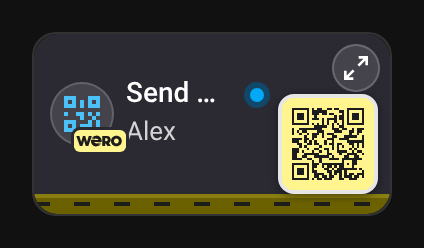
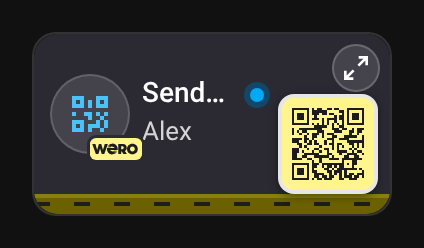
fix: full review fixes (1.14.2) (#63)
Full review (2026-11). Code, CI, security, translations and the visual
editor are in good shape; only the README needed corrections.

- README: the bundle is ~70 KB with English inline and one small file
per other language (was "single file ~55 KB").
- README: `name` is also the illustrated header's subtitle.

Version 1.14.2 (fix: the card is patched in place on state updates).
- Layout shift: a state update patches the card in place (no innerHTML
redraw) — SVG pictures, logos, open rows and dialogs keep their nodes;
unrelated entity updates touch nothing (regression tests added).
- Mini card header icon stays 40 px on narrow cards (charter: same size)
- README: Wero logo row under the own logo; note that all options apply
to both cards (except `zoom`) and are editor-editable

---
_Generated by [Claude Code](https://claude.ai/code)_

---------

Changed region(s): [[0.1226, 0.2823, 0.5519, 0.6492]]

diff --git a/src/wero-card.js b/src/wero-card.js
@@ -1006,14 +1006,13 @@ var WERO_BANNER_STYLE = `
         .banner .qr-wrap.thumb svg { width: 56px; }
         .banner .qr-wrap.thumb:focus-visible { outline: 2px solid var(--primary-color, #03a9f4); outline-offset: 4px; }
         /* Narrow mini card: the buttons back on one line, the QR under them at the right edge */
-        @container (max-width: 300px) { .wc-scene.mini .wc-lamp, .wc-scene.mini .wc-ok, .wc-scene.mini g[transform] { display: none; } .banner .htext.mini { right: 62px; gap: 8px; } .banner .htext.mini .hicon { width: 36px; height: 36px; }
+        @container (max-width: 300px) { .wc-scene.mini .wc-lamp, .wc-scene.mini .wc-ok, .wc-scene.mini g[transform] { display: none; } .banner .htext.mini { right: 62px; gap: 8px; }
           ha-card.mini .hact { flex-direction: row; } .banner .qr-wrap.thumb { right: 8px; top: 32px; } .banner .qr-wrap.thumb svg { width: 46px; } }
         /* Very narrow mini card (copy button hidden): the QR under the detail button, at the right edge */
         @container (max-width: 200px) {
           .wc-scene.mini { display: none; }
           .banner .htext.mini { left: 8px; right: 60px; gap: 6px; }
           .banner .htext.mini .hname { font-size: 14px; }
-          .banner .htext.mini .hicon { width: 32px; height: 32px; }
         }
         @keyframes wc-tap { 0%, 100% { transform: translateX(0); } 50% { transform: translateX(-26px); } }
         @keyframes wc-ok { 0%, 45% { opacity: 0; } 55%, 100% { opacity: 1; } }
@@ -1057,6 +1056,67 @@ function weroEsc(s) {
 }
 
 // ── wero-card ─────────────────────────────────────────────────────────────────
+// Shadow DOM patching: a redraw updates the nodes already on the page (text, attributes, classes) instead of replacing
+// them, so that a state update never re-creates the pictures (SVG scenes, logos) nor restarts their animations, and the
+// card keeps its height (a re-created card is laid out again, which can move the dashboard under the reader's eyes).
+// An open <dialog> keeps its `open` state: it is driven by showModal() / close().
+function weroMorphAttrs(cur, next) {
+  for (var a of Array.from(cur.attributes)) {
+    if (!next.hasAttribute(a.name) && !(a.name === 'open' && cur.localName === 'dialog')) cur.removeAttribute(a.name);
+  }
+  for (var b of Array.from(next.attributes)) {
+    if (cur.getAttribute(b.name) === b.value) continue;
+    if (b.namespaceURI) cur.setAttributeNS(b.namespaceURI, b.name, b.value);
+    else cur.setAttribute(b.name, b.value);
+  }
+}
+
+// A Home Assistant element given no content (<ha-icon>…) draws itself: what it adds to its own node is not ours to
+// remove. It is kept as long as the attributes the HTML gives it do not change, and replaced when they do.
+function weroMorphOwnDrawn(o, n) {
+  if (!n.localName.includes('-') || n.firstChild) return false;
+  var key = Array.from(n.attributes, (a) => `${a.name}=${a.value}`).join('\n');
+  if (o.__morphKey === undefined && Array.from(n.attributes).every((a) => o.getAttribute(a.name) === a.value)) o.__morphKey = key;
+  if (o.__morphKey !== key) {
+    n.__morphKey = key;
+    o.parentNode.replaceChild(n, o);
+  }
+  return true;
+}
+
+function weroMorphChildren(cur, next) {
+  var old = Array.from(cur.childNodes);
+  var fresh = Array.from(next.childNodes);
+  fresh.forEach((n, i) => {
+    var o = old[i];
+    var ref = cur.childNodes[i] || null;
+    if (!o || o.nodeType !== n.nodeType || o.nodeName !== n.nodeName) {
+      cur.insertBefore(n, ref);
+      return;
+    }
+    if (o !== ref) cur.insertBefore(o, ref);
+    if (n.nodeType !== 1) {
+      if (o.nodeValue !== n.nodeValue) o.nodeValue = n.nodeValue;
+    } else if (!weroMorphOwnDrawn(o, n)) {
+      weroMorphAttrs(o, n);
+      weroMorphChildren(o, n);
+    }
+  });
+  while (cur.childNodes.length > fresh.length) cur.removeChild(cur.lastChild);
+}
+
+// Gives `root` (a shadow root or an element) the content of `html`, patching what is already there (a plain
+// innerHTML where there is no DOM to patch, as in the unit tests' stubs).
+function weroMorph(root, html) {
+  var tpl = root.childNodes && typeof document !== 'undefined' && document.createElement?.('template');
+  if (!tpl?.content) {
+    root.innerHTML = html;
+    return;
+  }
+  tpl.innerHTML = html;
+  weroMorphChildren(root, tpl.content);
+}
+
 class WeroCard extends HTMLElement {
   static getConfigElement() {
     return document.createElement('wero-card-editor');
@@ -1276,16 +1336,14 @@ class WeroCard extends HTMLElement {
           ${actions}
         </div>`;
     }
-    // A re-render (e.g. language change via `set hass`) replaces an open zoom
-    // dialog: close it cleanly first and reopen the new one afterwards
+    // The redraw patches the nodes in place (weroMorph): an open full screen QR stays open, its QR copy is put back
+    // below; the keyboard focus is given back to the same control if it was lost, without scrolling the page
     var prevDlg = this.shadowRoot.getElementById('zoom');
     var wasOpen = !!(prevDlg && prevDlg.open);
-    if (wasOpen) prevDlg.close();
-    // innerHTML drops the keyboard focus: it is given back to the same control afterwards, without scrolling the page
     var focusId = this.shadowRoot.activeElement?.id;
     if (focusId !== 'copy' && focusId !== 'qr') focusId = null;
 
-    this.shadowRoot.innerHTML = `
+    weroMorph(this.shadowRoot, `
       <style>
         :host { display: block; height: 100%; }
         ha-card { height: 100%; box-sizing: border-box; padding: 12px; display: flex; flex-direction: column; align-items: center; justify-content: flex-start; gap: 10px; }
@@ -1367,11 +1425,13 @@ ${c.illustration ? WERO_BANNER_STYLE : ''}
         ${header}
         ${body}
         <span class="sr" id="live" aria-live="polite"></span>
-      </ha-card>`;
+      </ha-card>`);
 
     this.shadowRoot.getElementById('copy').onclick = () => this._copy();
     var qr = this.shadowRoot.getElementById('qr');
     var dlg = this.shadowRoot.getElementById('zoom');
+    // A dialog that was replaced (the mini card switching views) is closed: it would come back open elsewhere
+    if (wasOpen && prevDlg !== dlg) prevDlg.close();
     var open = () => {
       // The dialog gets its copy of the QR (a clone, the SVG path can be big) on first open only
       // The button's label covers its QR (hidden from screen readers there); the full screen one is an image again
@@ -1388,12 +1448,22 @@ ${c.illustration ? WERO_BANNER_STYLE : ''}
     // Escape is handled natively by <dialog>; a click anywhere (QR or backdrop) closes it
     if (dlg) dlg.onclick = () => dlg.close();
     if (wasOpen) open();
-    else if (focusId) this.shadowRoot.getElementById(focusId)?.focus?.({ preventScroll: true });
+    else if (focusId && this.shadowRoot.activeElement?.id !== focusId) this.shadowRoot.getElementById(focusId)?.focus?.({ preventScroll: true });
     this._fitPill();
   }
 
   // The status pill's place, on the banner and on the classic header (see weroPlacePill)
   _fitPill() {
+    // Home Assistant's <ha-card> (a Lit element) shows its content only from its first update, a microtask after it
+    // is connected: measured before, everything is 0 px wide and the pill lands on the wrong line. Fitted then.
+    var haCard = this.shadowRoot?.querySelector?.('ha-card');
+    if (haCard && haCard.hasUpdated === false) {
+      this._pillWait ??= (haCard.updateComplete?.then ? haCard.updateComplete : new Promise((r) => requestAnimationFrame(r))).then(() => {
+        this._pillWait = null;
+        this._fitPill();
+      });
+      return;
+    }
     var row = this.shadowRoot?.querySelector?.('.hrow, .header .trow');
     if (!row) return;
     var banner = row.closest('.banner');

diff --git a/README.md b/README.md
@@ -10,6 +10,8 @@
 
 <p align="center"><img src="https://raw.githubusercontent.com/juju35/ha-wero-card/main/images/icon.svg" alt="Wero QR Card" width="120"></p>
 
+<p align="center"><a href="https://wero-wallet.eu"><img src="https://raw.githubusercontent.com/juju35/ha-wero-card/main/images/wero.svg" alt="Wero" height="36"></a></p>
+
 Custom Lovelace card for Home Assistant that displays your [Wero](https://wero-wallet.eu) QR code, so guests can pay you back without asking for your phone number or IBAN.
 
 **Zero external dependencies** — the QR code is generated in pure JavaScript with an embedded Reed-Solomon encoder. No CDN, no network requests.
@@ -31,7 +33,7 @@ Custom Lovelace card for Home Assistant that displays your [Wero](https://wero-w
 - Fully compatible with Home Assistant dark mode and sections dashboards (6 columns by default and at least, so the title stays readable)
 - Keyboard friendly: visible focus on the copy button and the QR code, Enter or Space opens the QR code fullscreen
 - English, French, German, Spanish, Serbian (Cyrillic and Latin), Italian, Dutch, European Portuguese, Polish, Romanian, Danish, Swedish, Bulgarian, Russian, Ukrainian, Hungarian, Slovak, Czech, Slovenian, Latvian and Greek, auto-detected
-- Ready for the Marketplace, single file (~55 KB)
+- Ready for the Marketplace: one bundle (~70 KB, English inline) plus a small file per other language, fetched only when needed
 
 ## Prerequisites
 
@@ -123,12 +125,14 @@ The mini card takes the same options as the full card, plus `zoom`. With the ill
 
 ### Options reference
 
+Every option applies to **both** cards (`wero-card` and `wero-mini-card`) except `zoom` (mini card only), and every one is editable in the visual editor — none is YAML only.
+
 | Option | Required | Default | Description |
 |---|---|---|---|
 | `url` | ✅ | — | The `https://` link encoded in your Wero QR code |
 | `title` | ❌ | Auto (i18n) | Card title |
 | `show_title` | ❌ | `true` | Show the title in the header (e.g. `false` under a section heading of your own) |
-| `name` | ❌ | — | Payee name, shown under the QR code |
+| `name` | ❌ | — | Payee name: shown under the QR code, and as the subtitle of the illustrated header (« Wero » without it) |
 | `entity` | ❌ | — | Payment status entity (e.g. an `input_boolean` or a `binary_sensor` set by an automation). `on`, `true`, `received`, `paid`, `completed`, `done` or `success` mean « Received », any other state « Waiting », `unavailable` / `unknown` greys the icon and the pill (« Unavailable »). Without it the pill shows « Ready » |
 | `logo` | ❌ | `true` | Show the Wero logo (on the illustration's counter; in the classic header, `false` shows a generic icon) |
 | `illustration` | ❌ | `true` | Illustrated 90 px header (shop counter, payment terminal); `false` keeps the classic header |

diff --git a/CHANGELOG.md b/CHANGELOG.md
@@ -1,5 +1,15 @@
 # Changelog
 
+## 1.14.2 - 2026-11-20
+
+### Fixes
+- The status pill is placed from the card's first frame: it was measured before Home Assistant's `<ha-card>` had laid out its content (0 px wide), so for a frame it showed on the wrong line (under the title, or beside it when it belongs under it), sometimes changing the card's height, before jumping to its place. It is now fitted once the card is drawn.
+- A state update patches the card in place instead of drawing it again — the banner's picture, the Wero logo and their animations keep their nodes, the full screen QR code stays open, and the card keeps its height: a re-created card is laid out again, which can make the dashboard jump (scroll anchoring). Updates of other entities still touch nothing.
+- Mini card: the header icon keeps the full card's size (40 px) on narrow cards too, as on the other ha-* mini cards (it shrank to 36 px under 300 px and 32 px under 200 px).
+
+### Maintenance
+- README: a row with the Wero logo (linking to Wero's site) under the repo's own logo, and a line saying that every option applies to both cards (except `zoom`, mini card only) and is editable in the visual editor.
+
 ## 1.14.1 - 2026-11-18
 
 ### Fixes
